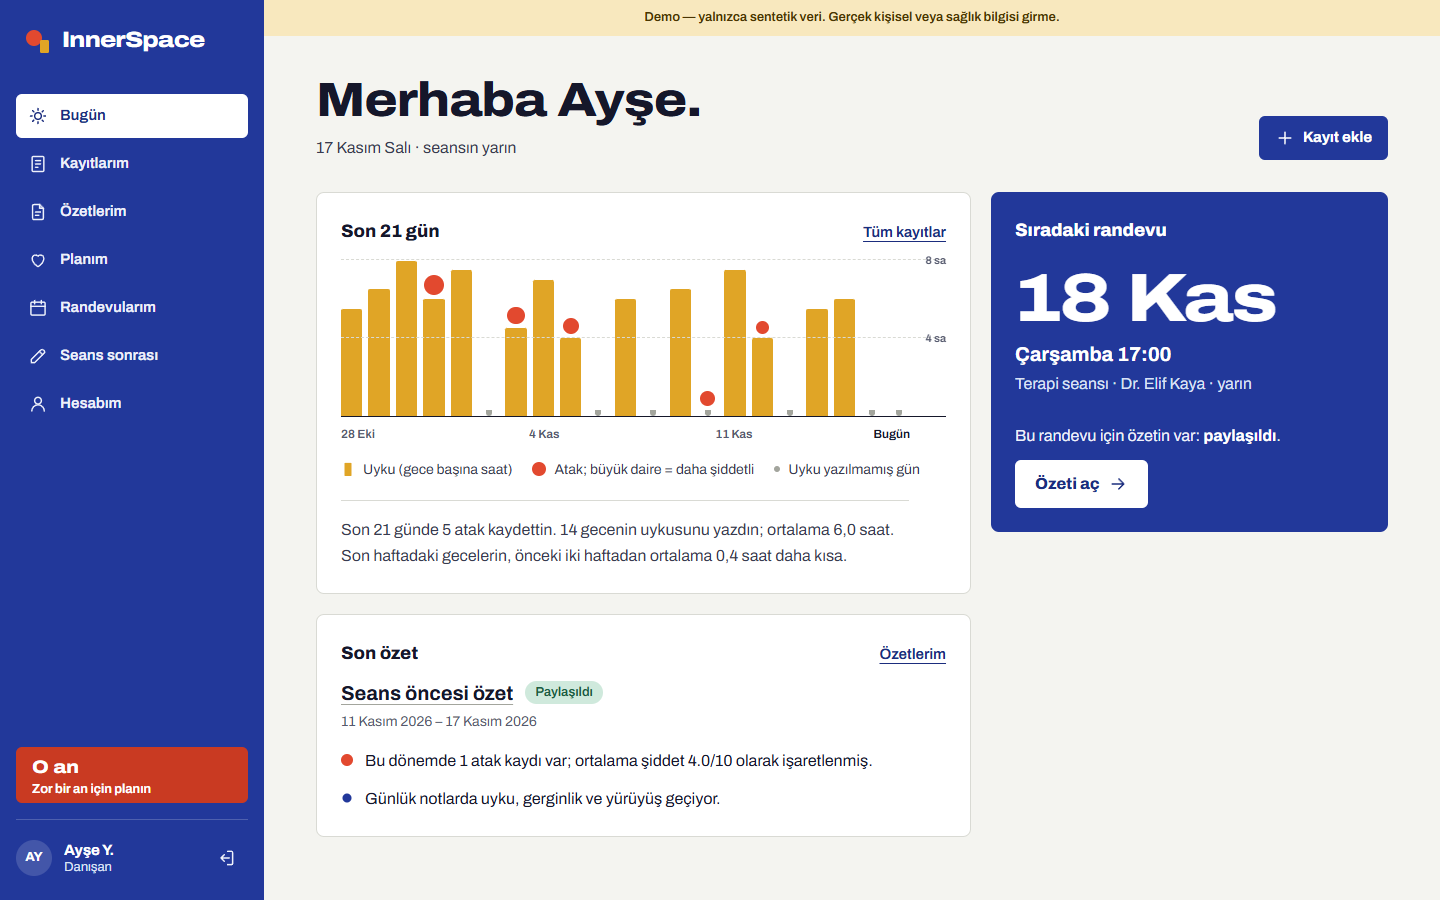
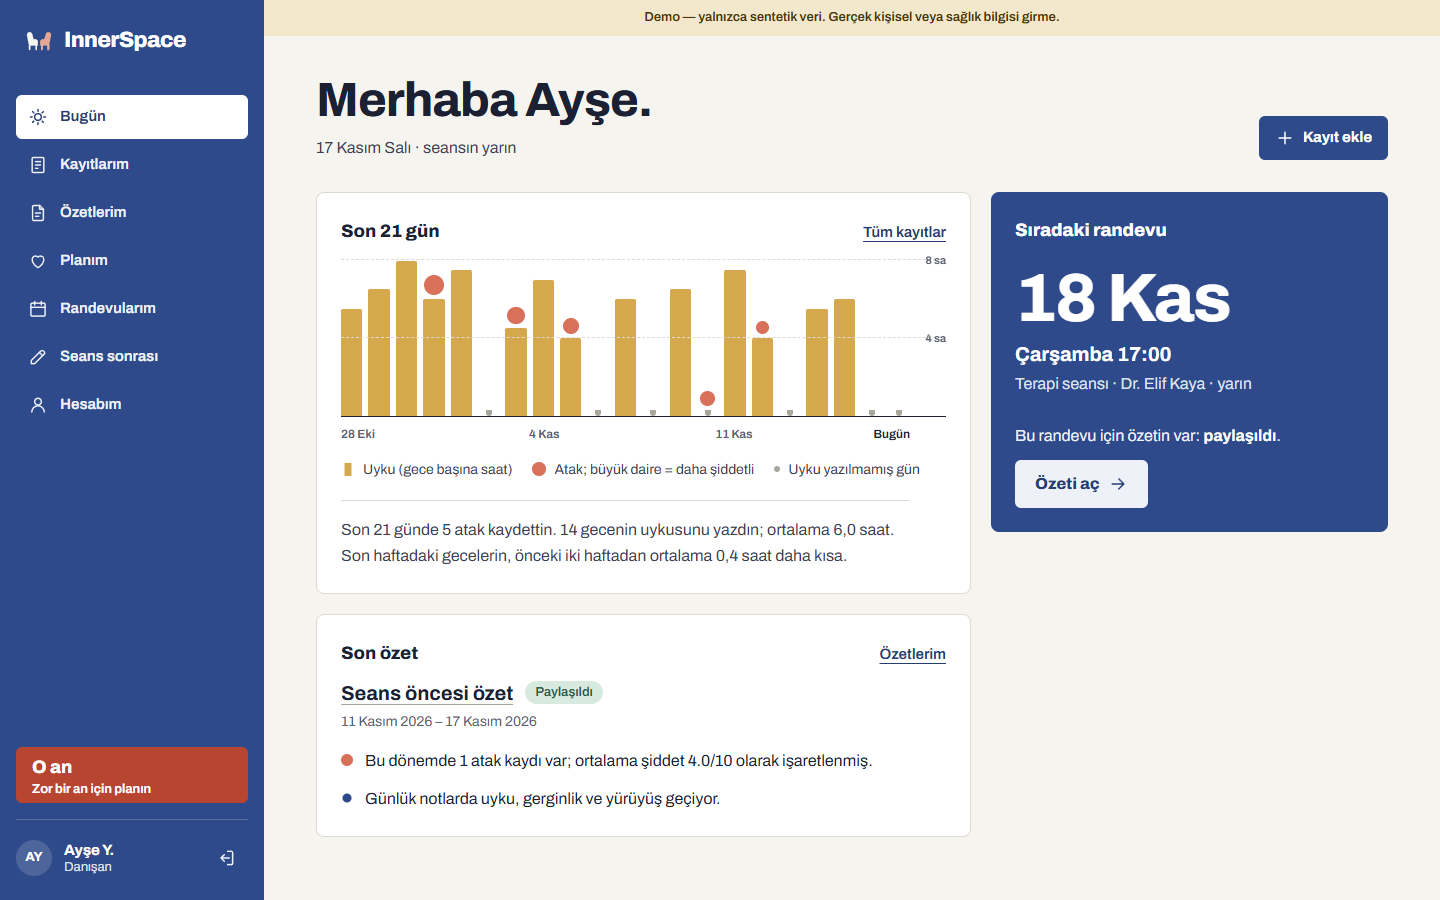
docs: README screenshots and demo GIF for the therapy-room look

diff --git a/README.md b/README.md
@@ -11,21 +11,22 @@
 
 ## Screenshots
 
-![InnerSpace demo: one-click sign-in as a client, the 21-day rhythm, a source-cited summary, then the clinician seeing it marked new](assets/screenshots/demo.gif)
+![InnerSpace demo: a client signs in, sees the 21-day rhythm and a source-cited summary, then the clinician sees it marked new](assets/screenshots/demo.gif)
 
 | | |
 |---|---|
 | ![Client home: next appointment, 21-day sleep and attack rhythm, last summary](assets/screenshots/client-home.png) | ![Client view of a shared summary; each statement opens the client's own source entries](assets/screenshots/client-summary.png) |
 | ![Clinician client list with new-summary markers and last share dates](assets/screenshots/clinician-clients.png) | ![Clinician view of a summary the client chose to share](assets/screenshots/clinician-summary.png) |
-| ![Landing page](assets/screenshots/landing.png) | ![Sign-in](assets/screenshots/login.png) |
-| ![Client entries, each kind with its own mark](assets/screenshots/client-entries.png) | ![Clinician view of one client: shared summaries, plan and appointments](assets/screenshots/clinician-client-detail.png) |
-| ![Client support plan editor](assets/screenshots/client-plan.png) | ![Clinic admin user management](assets/screenshots/admin-users.png) |
+| ![Landing page](assets/screenshots/landing.png) | ![Landing: how it works and the therapy-room cover](assets/screenshots/landing-room.png) |
+| ![Sign-in with the therapy-room illustration](assets/screenshots/login.png) | ![Client entries, each kind with its own mark](assets/screenshots/client-entries.png) |
+| ![Clinician view of one client: shared summaries, plan and appointments](assets/screenshots/clinician-client-detail.png) | ![Client support plan editor](assets/screenshots/client-plan.png) |
+| ![Clinic admin user management](assets/screenshots/admin-users.png) | |
 
 | Phone | | |
 |---|---|---|
 | <img src="assets/screenshots/client-home-mobile.png" alt="Client home on a phone" width="240"> | <img src="assets/screenshots/client-menu-mobile.png" alt="Phone navigation: tab bar and the Daha sheet" width="240"> | <img src="assets/screenshots/client-moment-mobile.png" alt="In the moment card on a phone" width="240"> |
 
-The visual language borrows from 1960s-80s Istanbul graphic modernism: a cobalt shell, one typeface (Archivo), and one geometric mark per record kind (attack disc sized by intensity, sleep bar, medication square, avoidance ring), used the same way in the trend strip, entry list and summaries. The landing cover is a generated abstract poster (no people, no real data).
+The visual language is a quiet therapy room: a soft cobalt shell on warm off-white, one typeface (Archivo), and a logo of two armchairs facing each other. The landing cover, sign-in panel and "how it works" illustrations are generated (GPT-6 Astra, one flat editorial style, no faces, no real data). Inside the app, colour beyond the shell appears only where it encodes data: each record kind has one mark (attack disc sized by intensity, sleep bar, medication square, avoidance ring), used the same way in the trend strip, entry list and summaries.
 
 ## Features
 
@@ -43,8 +44,6 @@ The visual language borrows from 1960s-80s Istanbul graphic modernism: a cobalt 
 **Clinician**
 - Sees assigned clients and only the summaries (and plan) a client has approved and shared; creates, edits and deletes appointments of assigned clients.
 - The client list shows each client's last share date and how many shared summaries are new (not opened since they were shared or re-shared), with a direct link to the newest one. Opening a summary records a content-free read receipt.
-
-**Demo sign-in**
 
 **Clinic admin (`org_admin`)**
 - Invites users, activates/deactivates them and manages clinician-client assignments. Sees no clinical content.
@@ -86,7 +85,7 @@ Enforced in the backend (role dependencies + scoped queries), never by the LLM. 
 | Users and assignments management | none | none | none | read/write (own org only) | none |
 | Export / delete account | own data only | none | none | none | none |
 
-Covered by: `backend/tests/test_auth_rbac.py` (roles, isolation, admin, invitations), `test_planning.py` (appointments and plan: assigned / unassigned / other org / admin), `test_phase8.py` (topics, reminders, export, delete), `test_ai.py` and `test_jobs.py` (summary generation, sharing and job access), `test_entries.py`, `test_demo_and_sharing.py` (demo sign-in, sharing overview isolation), `test_predeploy_fixes.py`, and `test_observability.py` (no content in logs).
+Covered by: `backend/tests/test_auth_rbac.py` (roles, isolation, admin, invitations), `test_planning.py` (appointments and plan: assigned / unassigned / other org / admin), `test_phase8.py` (topics, reminders, export, delete), `test_ai.py` and `test_jobs.py` (summary generation, sharing and job access), `test_entries.py`, `test_sharing_overview.py` (sharing overview isolation), `test_predeploy_fixes.py`, and `test_observability.py` (no content in logs).
 
 ## AI safety
 
@@ -131,8 +130,8 @@ The injection and citation evals run as assertions in `tests/test_evals.py` (`py
 ## Testing
 
 ```bash
-cd backend && uv run pytest -q    # 494 passed (real PostgreSQL)
-cd frontend && npx vitest run     # 79 passed (11 test files)
+cd backend && uv run pytest -q    # 487 passed (real PostgreSQL)
+cd frontend && npx vitest run     # 76 passed (11 test files)
 ```
 
 CI (`.github/workflows/ci.yml`) runs on every push and PR: backend (Postgres + Redis, migrations, pytest, ruff, pip-audit), frontend (lint, tests, build, npm audit) and a Docker image build.
